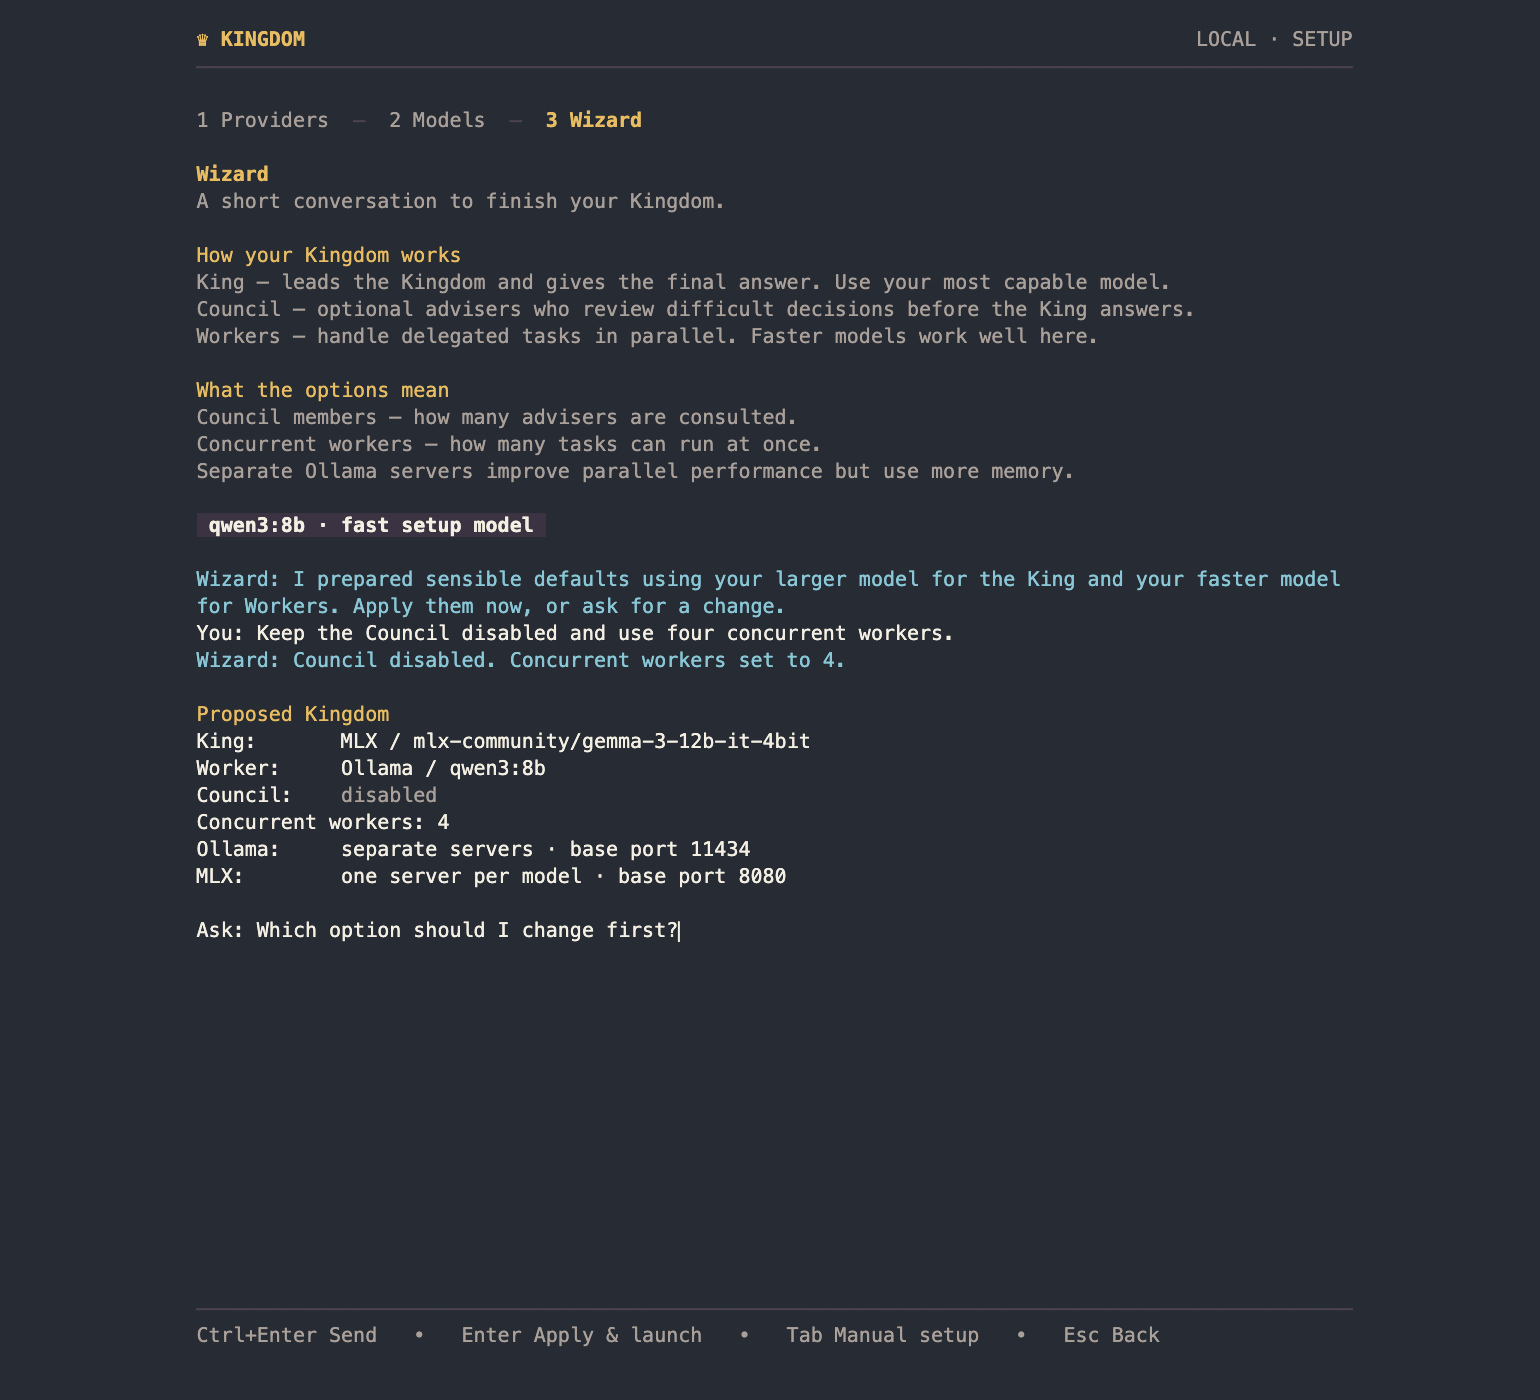
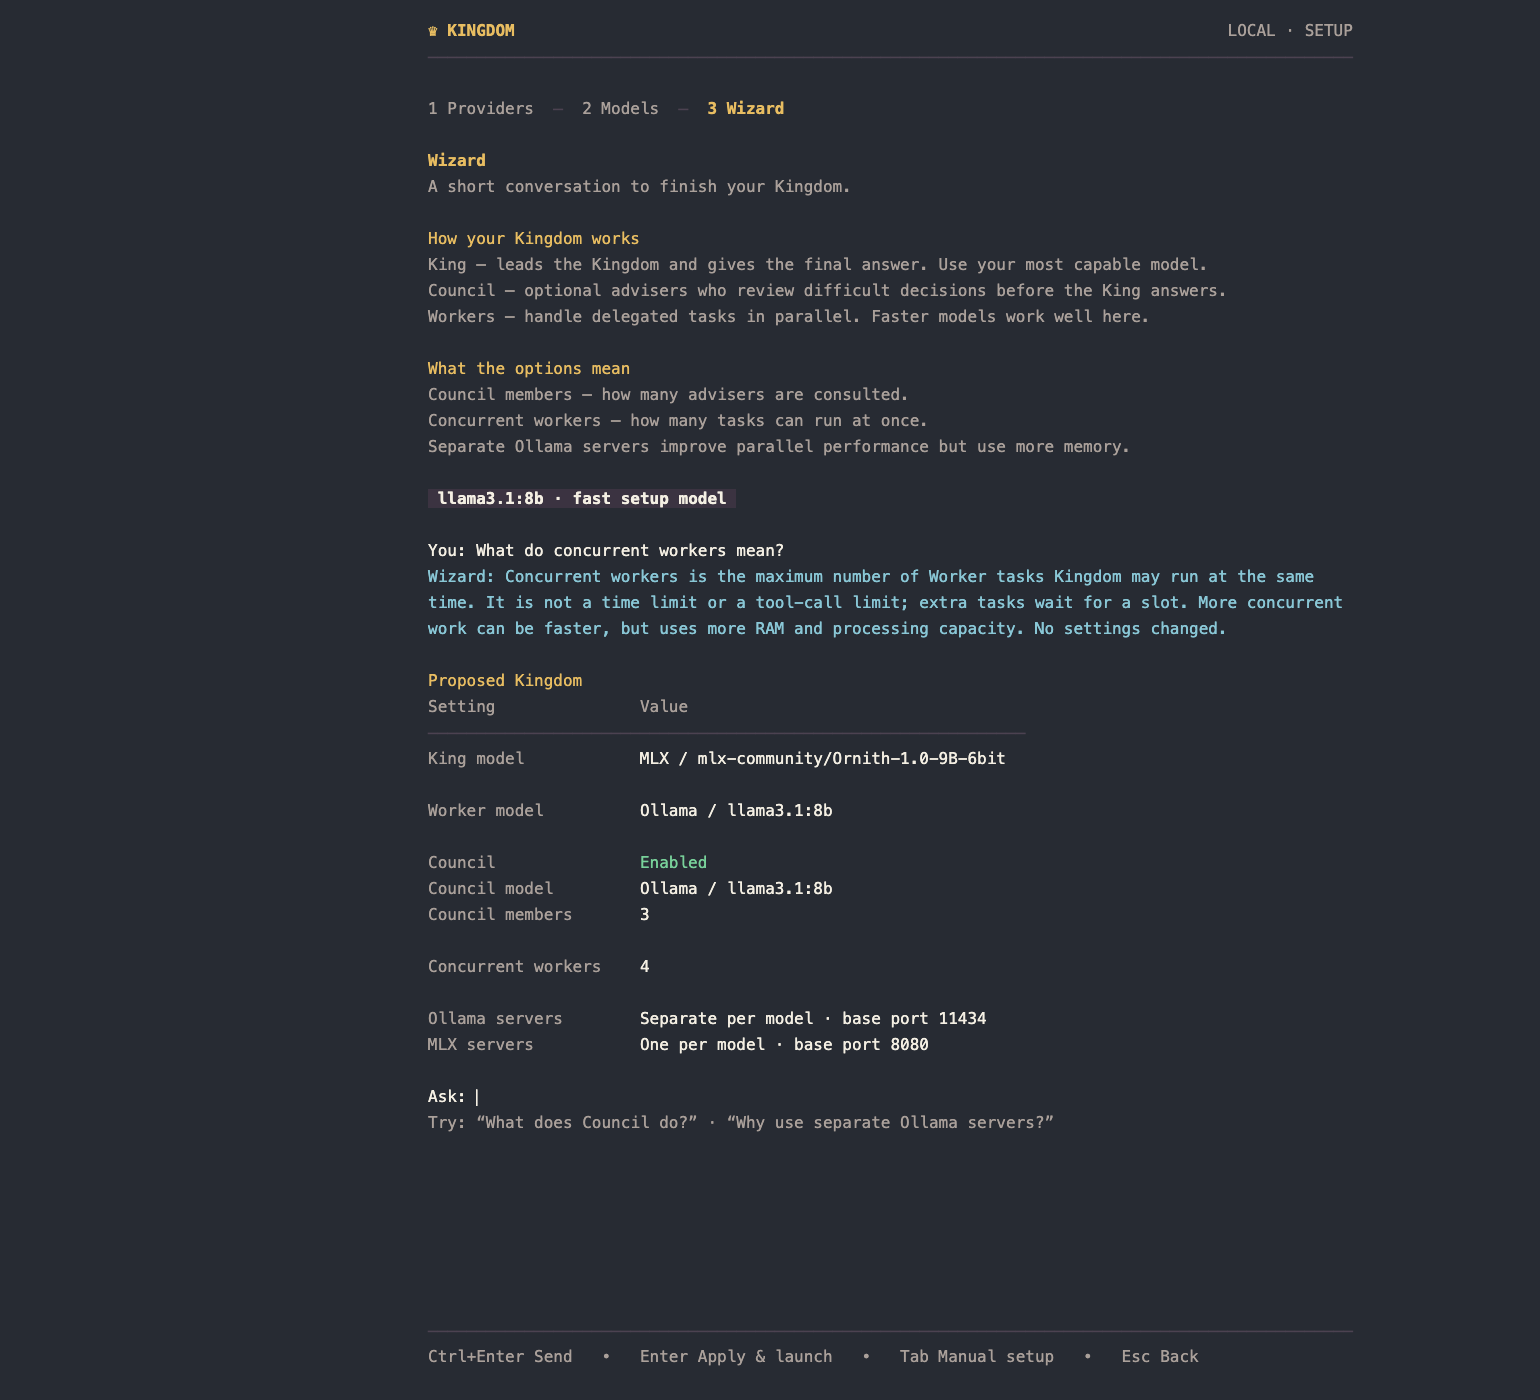
docs: refresh wizard guidance

diff --git a/README.md b/README.md
@@ -98,7 +98,12 @@ Ask the Wizard to change a role assignment, enable or disable the Council, adjus
 concurrent Workers, change ports, or choose shared versus separate Ollama servers. Press `Enter` to
 apply the proposal and launch Kingdom. Press `Tab` at any time to use the model-free manual setup.
 
-![Kingdom setup Wizard showing role guidance and the proposed configuration](docs/images/setup-wizard.png)
+You can also ask what any setting means—for example, “What do concurrent workers mean?” Kingdom
+answers common setup questions directly without changing the proposal and clearly confirms that no
+settings changed. The proposal is displayed in aligned **Setting** and **Value** columns so role,
+performance, and provider choices are easy to scan.
+
+![Kingdom setup Wizard explaining concurrent Workers and showing aligned Setting and Value columns](docs/images/setup-wizard.png)
 
 ## Main prompt
 
